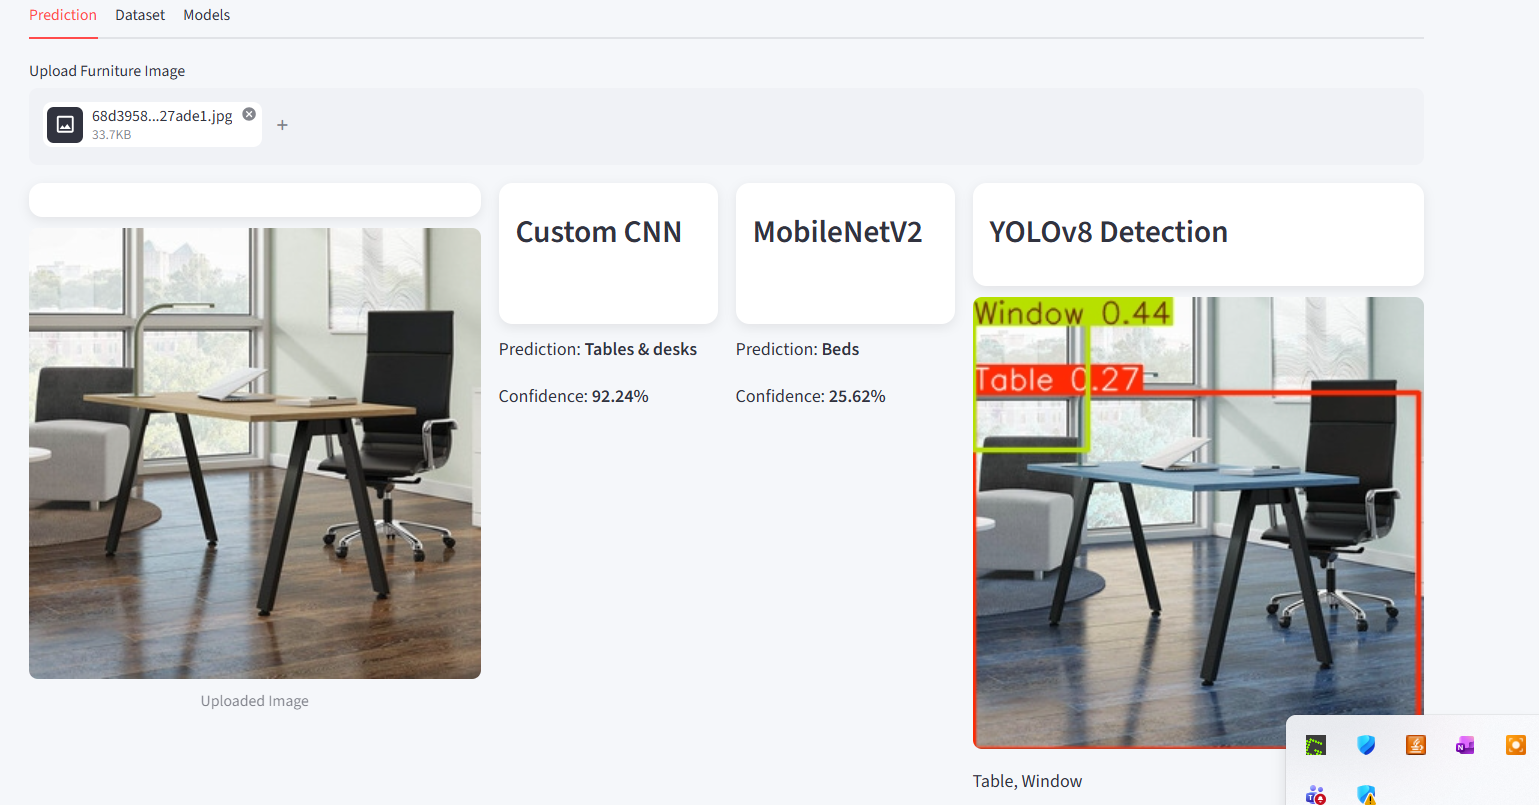
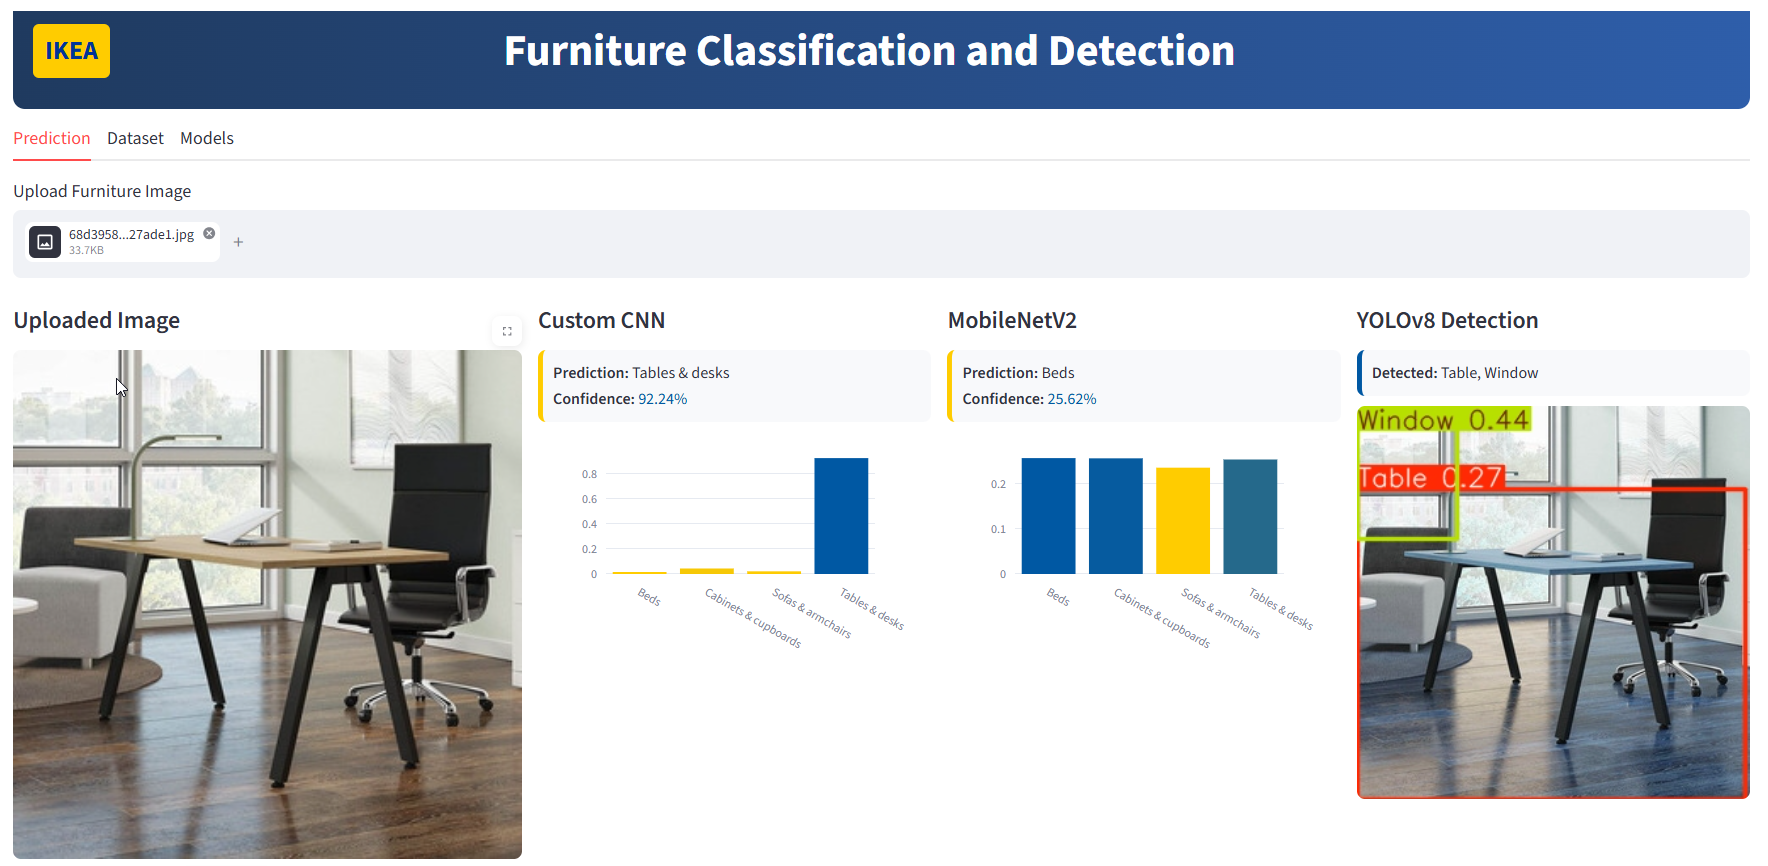
README update

diff --git a/README.md b/README.md
@@ -1,0 +1,246 @@
+# Furniture Classification and Detection System
+
+## Membres du groupe
+Omomene IWELOMEN - Salma BENTISSE - Jennifer HOUNGBEDJI  
+Dépôt GitHub : https://github.com/Omomene/NeuralNetwork.git
+
+---
+
+## Présentation du projet
+
+Ce projet est un système complet de machine learning et de deep learning pour l’analyse de meubles utilisant le dataset IKEA et un dataset de détection YOLOv8.
+
+Le système combine :
+
+- Machine Learning classique (baseline Logistic Regression)
+- Deep Learning (CNN personnalisé)
+- Transfer Learning (MobileNetV2)
+- Détection d’objets (YOLOv8)
+
+Un dashboard Streamlit a été développé pour comparer tous les modèles en temps réel et tester les prédictions de manière interactive.
+
+![alt text](<images/screenshots/2026-06-05 10_06_33-Greenshot.png>)
+
+---
+
+## Objectifs
+
+- Construire un modèle ML de base pour la classification
+- Concevoir et entraîner un CNN personnalisé from scratch
+- Améliorer les performances avec le transfer learning (MobileNetV2)
+- Entraîner un modèle de détection d’objets avec YOLOv8
+- Comparer toutes les approches de manière équitable
+- Déployer une application Streamlit en temps réel
+
+---
+
+## Vue d’ensemble des datasets
+
+### Dataset de classification IKEA
+- Source : IKEA product dataset - https://www.kaggle.com/datasets/ahmedkallam/ikea-sa-furniture-web-scraping
+- Tâche : Classification d’images
+- Classes : 4
+  - Beds
+  - Cabinets & cupboards
+  - Sofas & armchairs
+  - Tables & desks
+
+### Dataset de détection YOLOv8 Furniture
+- Source : Roboflow (Furniture Detection v20) - https://universe.roboflow.com/mokhamed-nagy-u69zl/furniture-detection-qiufc/dataset/20
+- Tâche : Détection d’objets
+- Images : 8,055
+- Classes : 25 catégories de meubles
+
+### Split du dataset (YOLOv8)
+- Train : 6,424 images
+- Validation : 891 images
+- Test : 739 images
+
+---
+
+## Architectures des modèles
+
+### 1. Logistic Regression (ML baseline)
+- Entrée : images aplaties
+- Régularisation : Ridge (L2)
+- Objectif : baseline classique de comparaison
+
+### 2. CNN personnalisé
+- Couches convolutionnelles
+- MaxPooling
+- Régularisation Dropout
+- Sortie Softmax (4 classes)
+
+### 3. MobileNetV2 (Transfer Learning)
+- Pré-entraîné sur ImageNet
+- Backbone gelé
+- Tête de classification personnalisée
+
+### 4. YOLOv8 (Détection d’objets)
+- YOLOv8n pré-entraîné
+- Fine-tuning sur dataset meuble
+- Détection par bounding boxes
+
+---
+
+## Résultats de performance
+
+### Modèles de classification
+
+| Modèle | Type | Accuracy |
+|------|------|----------|
+| Logistic Regression | ML baseline | 0.59 |
+| CNN personnalisé | Deep Learning | 0.42 |
+| MobileNetV2 | Transfer Learning | 0.62 |
+
+### Détection d’objets (YOLOv8)
+
+| Métrique | Valeur |
+|------|--------|
+| Precision | 0.43 |
+| Recall | 0.37 |
+| mAP50 | 0.41 |
+| mAP50-95 | 0.24 |
+
+---
+
+## Détails d’entraînement
+
+### CNN & MobileNetV2
+- Taille des images : 224x224
+- Optimiseur : Adam
+- Loss : Sparse categorical crossentropy
+- Epochs : 10
+
+### YOLOv8
+- Modèle : yolov8n
+- Taille des images : 416x416
+- Epochs : 5  
+- Framework : Ultralytics
+
+---
+
+## Structure du projet
+
+```
+
+
+├── main.ipynb
+├── src/
+│ ├── data.py
+│ ├── eda.py
+│ ├── ml.py
+│ ├── eval_ml.py
+│ ├── dl.py
+│ ├── opti_dl.py
+│ ├── eval_dl.py
+│ ├── yolo_dl.py
+│
+├── dataset/
+│ ├── IKEA_SA_Furniture_Web_Scrapings_sss.csv
+│ ├── furniture_detection/
+│
+├── images/
+│ └── furniture_images/
+│
+├── runs/
+│ └── detect/
+│ └── furniture_detector-2/
+│ ├── weights/
+│ │ ├── best.pt
+│ │ └── last.pt
+│
+├── models/
+│ ├── furniture_cnn.keras
+│ ├── mobilenet_model.keras
+│
+├── app.py
+├── requirements.txt
+└── README.md
+
+````
+
+---
+
+## Dashboard Streamlit
+
+L’application fournit :
+
+### 1. Interface de prédiction
+- Upload d’image
+- Comparaison des prédictions :
+  - CNN personnalisé
+  - MobileNetV2
+  - Détection YOLOv8
+
+![alt text](<images/screenshots/2026-06-05 14_46_21-Greenshot.png>)
+
+### 2. Analyse du dataset
+- Distribution des classes
+- Visualisation du split des datasets
+- Vue statistique
+
+![alt text](<images/screenshots/2026-06-05 16_21_20-Greenshot.png>)
+
+### 3. Comparaison des modèles
+- Comparaison des accuracies
+- Performance YOLO (mAP)
+- Graphiques
+
+![alt text](<images/screenshots/2026-06-05 16_22_08-Greenshot.png>)
+
+---
+
+## Comment exécuter le projet
+
+### 1. Installer les dépendances
+
+```bash
+pip install -r requirements.txt
+````
+
+---
+
+### 2. Lancer l’entraînement
+
+```bash
+python main.ipynb
+```
+
+---
+
+### 3. Lancer le dashboard Streamlit
+
+```bash
+streamlit run app.py
+```
+
+---
+
+## Résumé des résultats
+
+* YOLOv8 détecte correctement les objets avec une précision moyenne
+* CNN et MobileNetV2 ont des performances limitées par la capacité d’entraînement
+* Logistic Regression fournit une baseline mais insuffisante pour la classification fine des meubles
+
+---
+
+## Reproductibilité
+
+Tous les modèles peuvent être réentraînés via :
+
+* Scripts modulaires dans `src/`
+* Pipeline `main.ipynb`
+* Structure du dataset dans `dataset/`
+* Environnement `requirements.txt`
+
+---
+
+## Notes
+
+* Le dataset n’est pas versionné à cause de sa taille
+* Les outputs YOLO sont stockés dans `runs/`
+* Les modèles sont sauvegardés en `.keras` et `.pt`
+
+
+